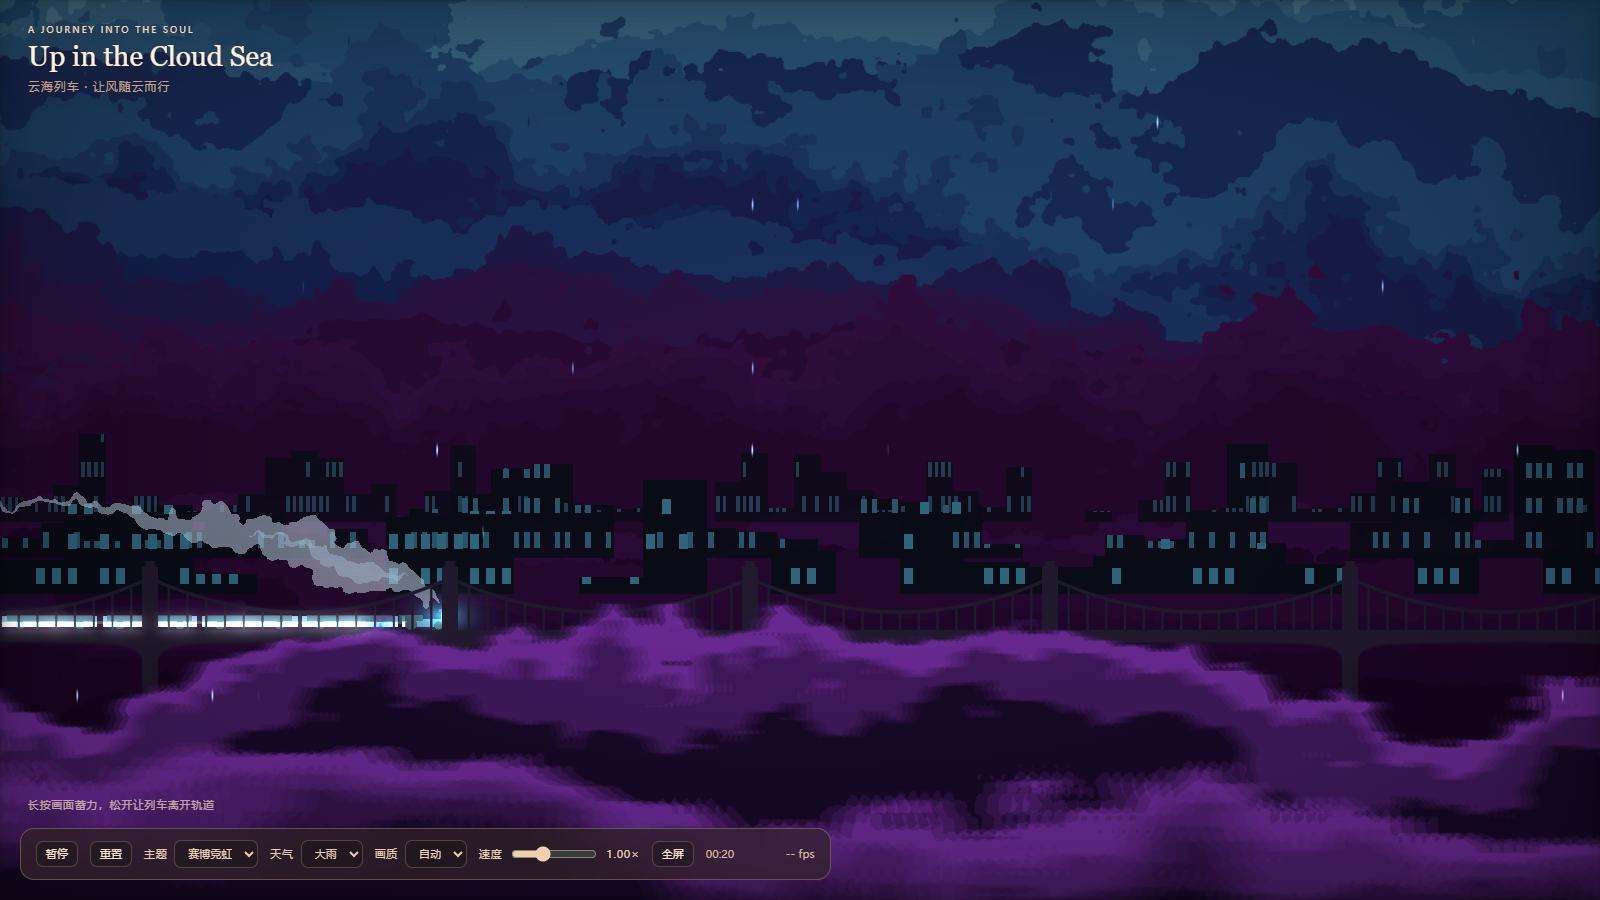
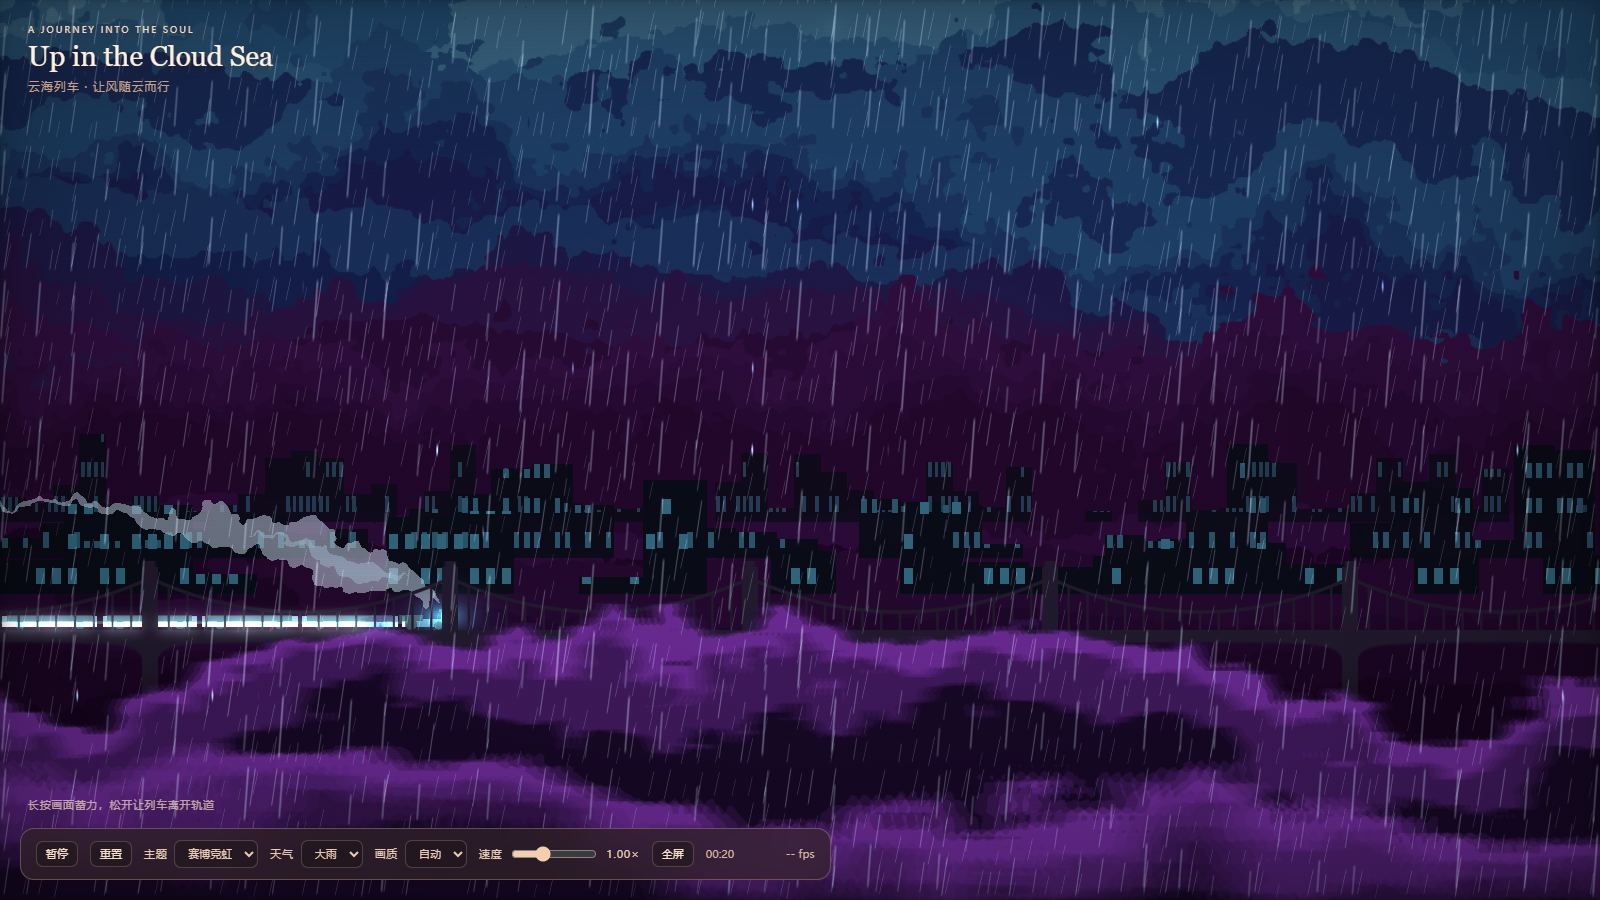
M12: 雨丝长短随机/头尾渐隐/每层斜率/背景色采样

diff --git a/src/systems/weather.js b/src/systems/weather.js
@@ -48,7 +48,7 @@ export const WEATHER_PRESETS = {
     particleColor: [0.62, 0.82, 1.0],
     flashRate: 0,
     precipType: 1,
-    precipAmount: 1.0,
+    precipAmount: 1.25,
     tornado: 0,
   },
   snow: {

diff --git a/docs/开发日志.md b/docs/开发日志.md
@@ -171,9 +171,47 @@
 
 ---
 
+## 2026-11-18 · M12 雨丝质感（第一档）
+
+### 反馈
+
+大雨"廉价感"：雨线单层、等长、平行、纯白硬边，没有纵深，也不和场景交互。
+
+### 做了什么
+
+按"性价比优先"的顺序，只做了第 1–2 步（第三档的雾与闪电联动留到下一轮）：
+
+1. **长短随机 + 头尾渐隐**：每条雨丝的长度取 `0.40–1.00` 个单元、位置在单元内随机，
+   alpha 沿长度方向 `smoothstep(0, 0.22, along)` 渐隐，不再是等长硬条；
+2. **每层不同斜率**：三层各自 `slant × (0.55 + k×0.55)`，取消"全部平行"；
+3. **微弱风噪**：逐条 `sin(t×1.7 + hash×24)×0.018` 的水平扰动，阵风感；
+4. **背景色采样**：雨色 = `mix(雨白, col×1.35, 0.45)`，再按背景亮度决定可见度
+   `vis = rain × amount × (0.80 + 0.60×lum)`，最后叠一点亮度回馈 `rain × 0.09 × lum`。
+
+`rainField()` 从 12 行涨到 26 行，全部在 composite pass 的屏幕空间里，没有新增 pass、没有新增纹理。
+
+### 数据
+
+- 1080p 帧时：晴 8.59 ms → 大雨 8.75 ms（**+0.16 ms**，预算内）；
+- 雨丝密度：`alive` 阈值 0.62 → 0.42，`precipAmount` 1.0 → 1.25。
+
+### 对比
+
+`shots/rain-compare.png`：上半是旧版（稀疏、等长、纯白），下半是新版（长短不一、头尾渐隐、随背景染色）。
+
+### 还没做
+
+- **云遮蔽衰减**：需要让 `sky`/`fg` 的 alpha 输出"云覆盖率"，composite 采样后再衰减雨——这是第 4 步；
+- **雨雾**：低频噪声薄雾层，第三档；
+- **闪电联动**：`uFlash` 目前只传到 final，需要再传给 composite 才能提亮雨丝；
+- **水花/雨簇疏密**：第三档细节。
+
+---
+
 ## 待办（按优先级）
 
 1. **音频**：风声（随天气变化）、雷声、起飞音效——M9 唯一没兑现的项；
+   （雨丝质感的后续：云遮蔽衰减 → 雨雾 → 闪电提亮雨丝）
 2. **龙卷挖空云层**：现在只有涡旋扭曲，没有真正的缺口；
 3. **竖屏构图**：430×860 下 `uv.x` 只有 0.5，列车占比过大，需要给云层一套纵向参数；
 4. **飓风的体感**：目前靠风速与粒子漂移，可再加画面轻微抖动与云的横向拉伸；
